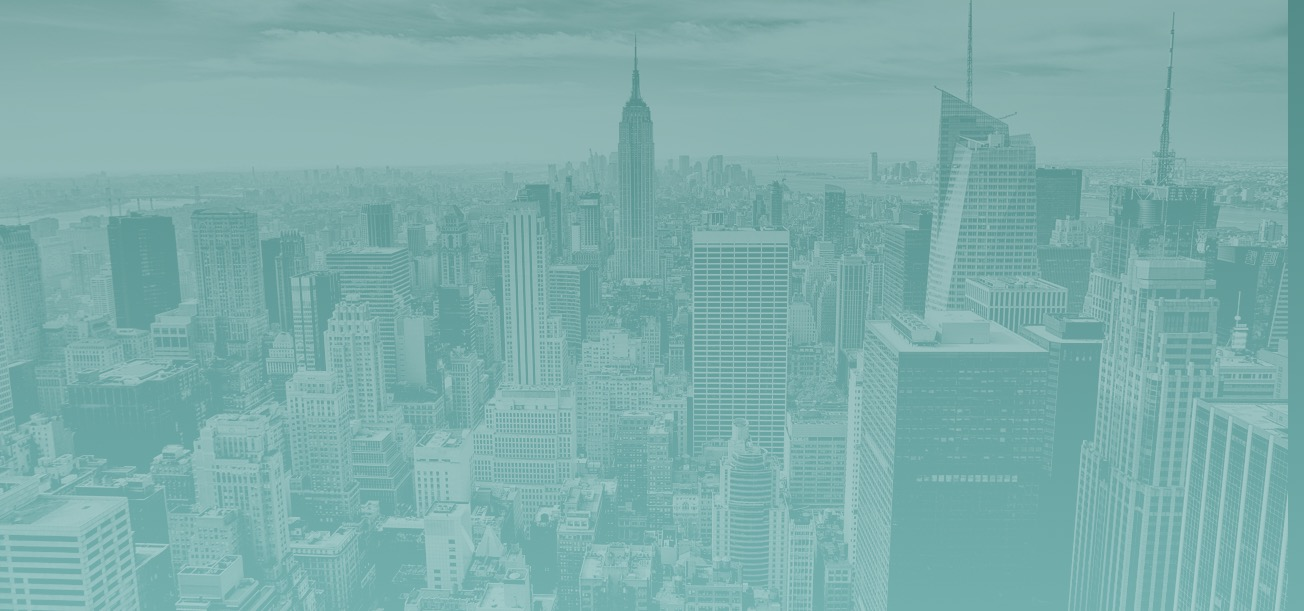
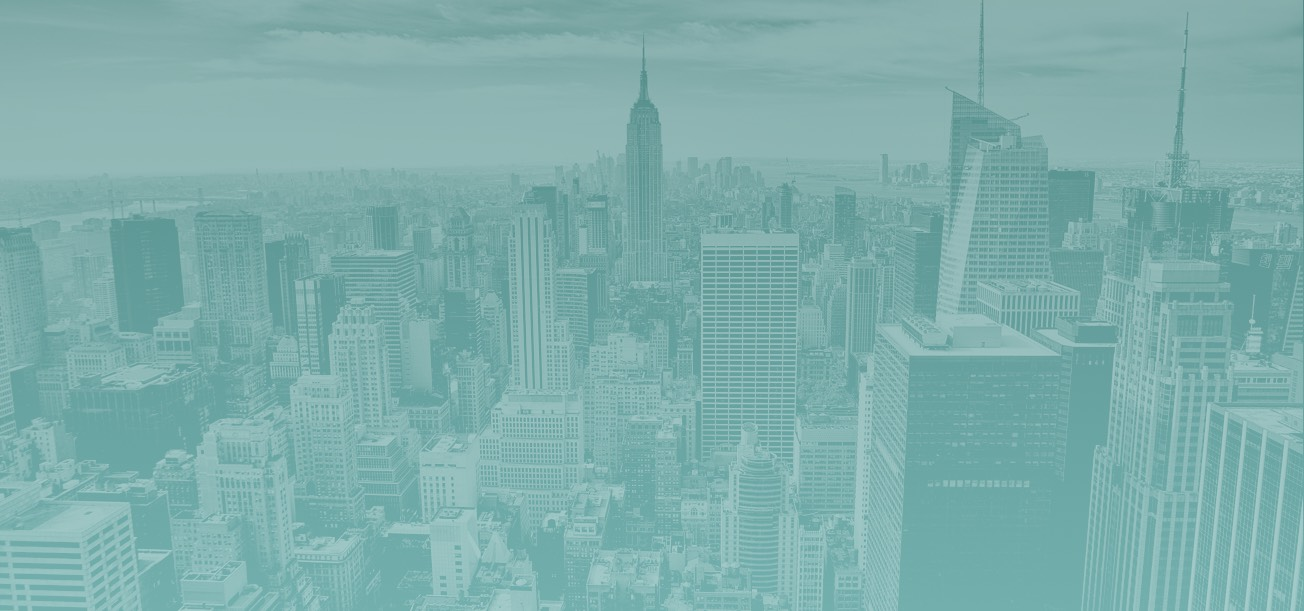
small fixes and font

diff --git a/app/questions_dashboard.html b/app/questions_dashboard.html
@@ -34,7 +34,7 @@
 
       <header class="main-header main-header__bordered">
         <div class="grid grid--middle">
-          <div class="grid__item large--three-quarters">
+          <div class="grid__item large--seven-tenths">
             <div class="grid grid--middle">
               <div class="grid__item text-center small--text-start small--one-half">
                 <h1 class="main-logo main-logo--dark">
@@ -53,7 +53,7 @@
                 </form>
               </div>
             </div>
-          </div><div class="grid__item large--one-quarter text-center small--text-end">
+          </div><div class="grid__item large--three-tenths text-center small--text-end">
             <nav>
               <ul class="nav main-navigation flush--bottom">
                 <li class="nav__item main-navigation__item vertical-align--middle is-active">
@@ -69,7 +69,7 @@
                   </a>
                 </li>
                 <li class="nav__item main-navigation__item vertical-align--middle">
-                  <div class="media user-media">
+                  <div class="media user-media push-half--left">
                     <div class="media__img media__img--small">
                       <img alt="" class="img--round" src="images/dummy-user-small-1.jpg" width="28">
                     </div>
@@ -217,31 +217,66 @@
           </div>
         </div><div class="grid__item medium--one-fifth">
           <div class="filters">
-            <h2 class="epsilon filters__title bordered-item">My Bookmarks</h2>
+            <h2 class="epsilon filters__title bordered-item split cf">
+              <span class="split__title">
+                My Bookmarks
+              </span>
+              <a class="filters__edit" href="#">
+                Edit
+              </a>
+            </h2>
             <ul class="filters__list">
               <li class="filters__item">google.com</li>
               <li class="filters__item">time.com</li>
             </ul>
 
-            <h2 class="epsilon filters__title bordered-item">By Location</h2>
+            <h2 class="epsilon filters__title bordered-item split cf">
+              <span class="split__title">
+                By Location
+              </span>
+              <a class="filters__edit" href="#">
+                Edit
+              </a>
+            </h2>
             <ul class="filters__list">
               <li class="filters__item">google.com</li>
               <li class="filters__item">time.com</li>
             </ul>
 
-            <h2 class="epsilon filters__title bordered-item">By Company</h2>
+            <h2 class="epsilon filters__title bordered-item split cf">
+              <span class="split__title">
+                By Company
+              </span>
+              <a class="filters__edit" href="#">
+                Edit
+              </a>
+            </h2>
             <ul class="filters__list">
               <li class="filters__item">google.com</li>
               <li class="filters__item">time.com</li>
             </ul>
 
-            <h2 class="epsilon filters__title bordered-item">By Category</h2>
+            <h2 class="epsilon filters__title bordered-item split cf">
+              <span class="split__title">
+                By Category
+              </span>
+              <a class="filters__edit" href="#">
+                Edit
+              </a>
+            </h2>
             <ul class="filters__list">
               <li class="filters__item">google.com</li>
               <li class="filters__item">time.com</li>
             </ul>
 
-            <h2 class="epsilon filters__title bordered-item">By Time</h2>
+            <h2 class="epsilon filters__title bordered-item split cf">
+              <span class="split__title">
+                By Time
+              </span>
+              <a class="filters__edit" href="#">
+                Edit
+              </a>
+            </h2>
             <ul class="filters__list">
               <li class="filters__item">google.com</li>
               <li class="filters__item">time.com</li>
@@ -369,7 +404,12 @@
               </div>
               <div class="form group">
                 <label for="">Attachment</label>
-                <input type="file">
+                <div>
+                  <button class="button button--info file-upload">
+                    <input class="file-upload__input" type="file">
+                    Add attachment
+                  </button>
+                </div>
               </div>
               <hr class="rule">
               <div class="text--end">

diff --git a/app/marketplace_dashboard.html b/app/marketplace_dashboard.html
@@ -34,7 +34,7 @@
 
       <header class="main-header main-header__bordered">
         <div class="grid grid--middle">
-          <div class="grid__item large--three-quarters">
+          <div class="grid__item large--seven-tenths">
             <div class="grid grid--middle">
               <div class="grid__item text-center small--text-start small--one-half">
                 <h1 class="main-logo main-logo--dark">
@@ -53,7 +53,7 @@
                 </form>
               </div>
             </div>
-          </div><div class="grid__item large--one-quarter text-center small--text-end">
+          </div><div class="grid__item large--three-tenths text-center small--text-end">
             <nav>
               <ul class="nav main-navigation flush--bottom">
                 <li class="nav__item main-navigation__item vertical-align--middle">
@@ -69,7 +69,7 @@
                   </a>
                 </li>
                 <li class="nav__item main-navigation__item vertical-align--middle">
-                  <div class="media user-media">
+                  <div class="media user-media push-half--left">
                     <div class="media__img media__img--small">
                       <img alt="" class="img--round" src="images/dummy-user-small-1.jpg" width="28">
                     </div>
@@ -175,31 +175,66 @@
           </div>
         </div><div class="grid__item medium--one-fifth">
           <div class="filters">
-            <h2 class="epsilon filters__title bordered-item">My Bookmarks</h2>
+            <h2 class="epsilon filters__title bordered-item split cf">
+              <span class="split__title">
+                My Bookmarks
+              </span>
+              <a class="filters__edit" href="#">
+                Edit
+              </a>
+            </h2>
             <ul class="filters__list">
               <li class="filters__item">google.com</li>
               <li class="filters__item">time.com</li>
             </ul>
 
-            <h2 class="epsilon filters__title bordered-item">By Location</h2>
+            <h2 class="epsilon filters__title bordered-item split cf">
+              <span class="split__title">
+                By Location
+              </span>
+              <a class="filters__edit" href="#">
+                Edit
+              </a>
+            </h2>
             <ul class="filters__list">
               <li class="filters__item">google.com</li>
               <li class="filters__item">time.com</li>
             </ul>
 
-            <h2 class="epsilon filters__title bordered-item">By Company</h2>
+            <h2 class="epsilon filters__title bordered-item split cf">
+              <span class="split__title">
+                By Company
+              </span>
+              <a class="filters__edit" href="#">
+                Edit
+              </a>
+            </h2>
             <ul class="filters__list">
               <li class="filters__item">google.com</li>
               <li class="filters__item">time.com</li>
             </ul>
 
-            <h2 class="epsilon filters__title bordered-item">By Category</h2>
+            <h2 class="epsilon filters__title bordered-item split cf">
+              <span class="split__title">
+                By Category
+              </span>
+              <a class="filters__edit" href="#">
+                Edit
+              </a>
+            </h2>
             <ul class="filters__list">
               <li class="filters__item">google.com</li>
               <li class="filters__item">time.com</li>
             </ul>
 
-            <h2 class="epsilon filters__title bordered-item">By Time</h2>
+            <h2 class="epsilon filters__title bordered-item split cf">
+              <span class="split__title">
+                By Time
+              </span>
+              <a class="filters__edit" href="#">
+                Edit
+              </a>
+            </h2>
             <ul class="filters__list">
               <li class="filters__item">google.com</li>
               <li class="filters__item">time.com</li>

diff --git a/app/answer_detail.html b/app/answer_detail.html
@@ -34,7 +34,7 @@
 
       <header class="main-header main-header__bordered">
         <div class="grid grid--middle">
-          <div class="grid__item large--three-quarters">
+          <div class="grid__item large--seven-tenths">
             <div class="grid grid--middle">
               <div class="grid__item text-center small--text-start small--one-half">
                 <h1 class="main-logo main-logo--dark">
@@ -53,7 +53,7 @@
                 </form>
               </div>
             </div>
-          </div><div class="grid__item large--one-quarter text-center small--text-end">
+          </div><div class="grid__item large--three-tenths text-center small--text-end">
             <nav>
               <ul class="nav main-navigation flush--bottom">
                 <li class="nav__item main-navigation__item vertical-align--middle is-active">
@@ -69,7 +69,7 @@
                   </a>
                 </li>
                 <li class="nav__item main-navigation__item vertical-align--middle">
-                  <div class="media user-media">
+                  <div class="media user-media push-half--left">
                     <div class="media__img media__img--small">
                       <img alt="" class="img--round" src="images/dummy-user-small-1.jpg" width="28">
                     </div>
@@ -309,16 +309,16 @@
                 </div>
                 <div class="panel__body">
                   <p>
-                    Experience Vurb in every way possible. Discover great sights to visit when traveling.
+                    <a class="related-box__link" href="#">Experience Vurb in every way possible. Discover great sights to visit when traveling.</a>
                   </p>
                   <p>
-                    Experience Vurb in every way possible. Discover great sights to visit when traveling.
+                    <a class="related-box__link" href="#">Experience Vurb in every way possible. Discover great sights to visit when traveling.</a>
                   </p>
                   <p>
-                    Experience Vurb in every way possible. Discover great sights to visit when traveling.
+                    <a class="related-box__link" href="#">Experience Vurb in every way possible. Discover great sights to visit when traveling.</a>
                   </p>
                   <p>
-                    Experience Vurb in every way possible. Discover great sights to visit when traveling.
+                    <a class="related-box__link" href="#">Experience Vurb in every way possible. Discover great sights to visit when traveling.</a>
                   </p>
                 </div>
               </div>

diff --git a/app/styles/application/settings/_variables.scss b/app/styles/application/settings/_variables.scss
@@ -14,8 +14,8 @@ $end: right;
 
 
 //Typography
-$font-family-sans-serif:            "Open Sans", "Helvetica Neue", Helvetica, Arial, "Lucida Grande", sans-serif !default;
-$font-family-serif:                 Cambria, Times New Roman, Times, serif !default;
+$font-family-sans-serif:            "Helvetica Neue", Helvetica, Arial, sans-serif !default;
+$font-family-serif:                 Georgia, Times, Times New Roman, serif !default;
 $font-family-base:                  $font-family-sans-serif;
 $font-family-icons:                 "icon-family";
 

diff --git a/app/styles/application/modules/_hero.scss b/app/styles/application/modules/_hero.scss
@@ -30,7 +30,6 @@
   color: white;
   padding: $base-spacing-unit * 5 0 $base-spacing-unit * 4;
   @media #{$small} {
-    background-size: auto;
     padding: $base-spacing-unit * 7 0 $base-spacing-unit;
     @include rem(500px, height);
   }
@@ -40,9 +39,6 @@
   background-image: url('../images/buildings-bottom.jpg');
   padding-top: 0;
   padding-bottom: 0;
-  @media #{$small} {
-    background-size: auto;
-  }
   &__content{
     padding-top: $base-spacing-unit * 4;
     padding-bottom: $base-spacing-unit * 3;

diff --git a/app/styles/application/modules/_forms.scss b/app/styles/application/modules/_forms.scss
@@ -328,3 +328,19 @@ label>sup {
   border: 1px solid #F4F4F4;
   box-shadow: inset 0 1px 3px rgba(black, 0.3);
 }
+
+.file-upload {
+    position: relative;
+    overflow: hidden;
+}
+.file-upload__input {
+    position: absolute;
+    top: 0;
+    right: 0;
+    margin: 0;
+    padding: 0;
+    font-size: 20px;
+    cursor: pointer;
+    opacity: 0;
+    filter: alpha(opacity=0);
+}

diff --git a/app/styles/main.scss b/app/styles/main.scss
@@ -51,6 +51,7 @@
 @import "application/objects/clearfix";
 @import "application/objects/nav";
 @import "application/objects/media";
+@import "application/objects/split";
 @import "application/objects/vertical-middle";
 
 //modules, the real css that you write everyday based on the design

diff --git a/app/styles/application/modules/_related-box.scss b/app/styles/application/modules/_related-box.scss
@@ -1,3 +1,11 @@
 .related-box{
   @include rem(13);
+  &__link{
+    color: #276BAF;
+    text-decoration: underline;
+    &:hover{
+      color: darken(#276BAF, 10%);
+      text-decoration: underline;
+    }
+  }
 }

diff --git a/app/styles/application/modules/_filters.scss b/app/styles/application/modules/_filters.scss
@@ -11,8 +11,9 @@
     margin: 0;
     margin-bottom: $half-spacing-unit / 2;
   }
-  &__item{
-
+  &__edit{
+    font-size: em(13);
+    color: #959595;
   }
 }
 

diff --git a/app/styles/application/modules/_ask-item.scss b/app/styles/application/modules/_ask-item.scss
@@ -36,6 +36,7 @@
     margin-bottom: $half-spacing-unit;
   }
   &__text{
+    font-family: $font-family-serif;
     color: black;
   }
 }
